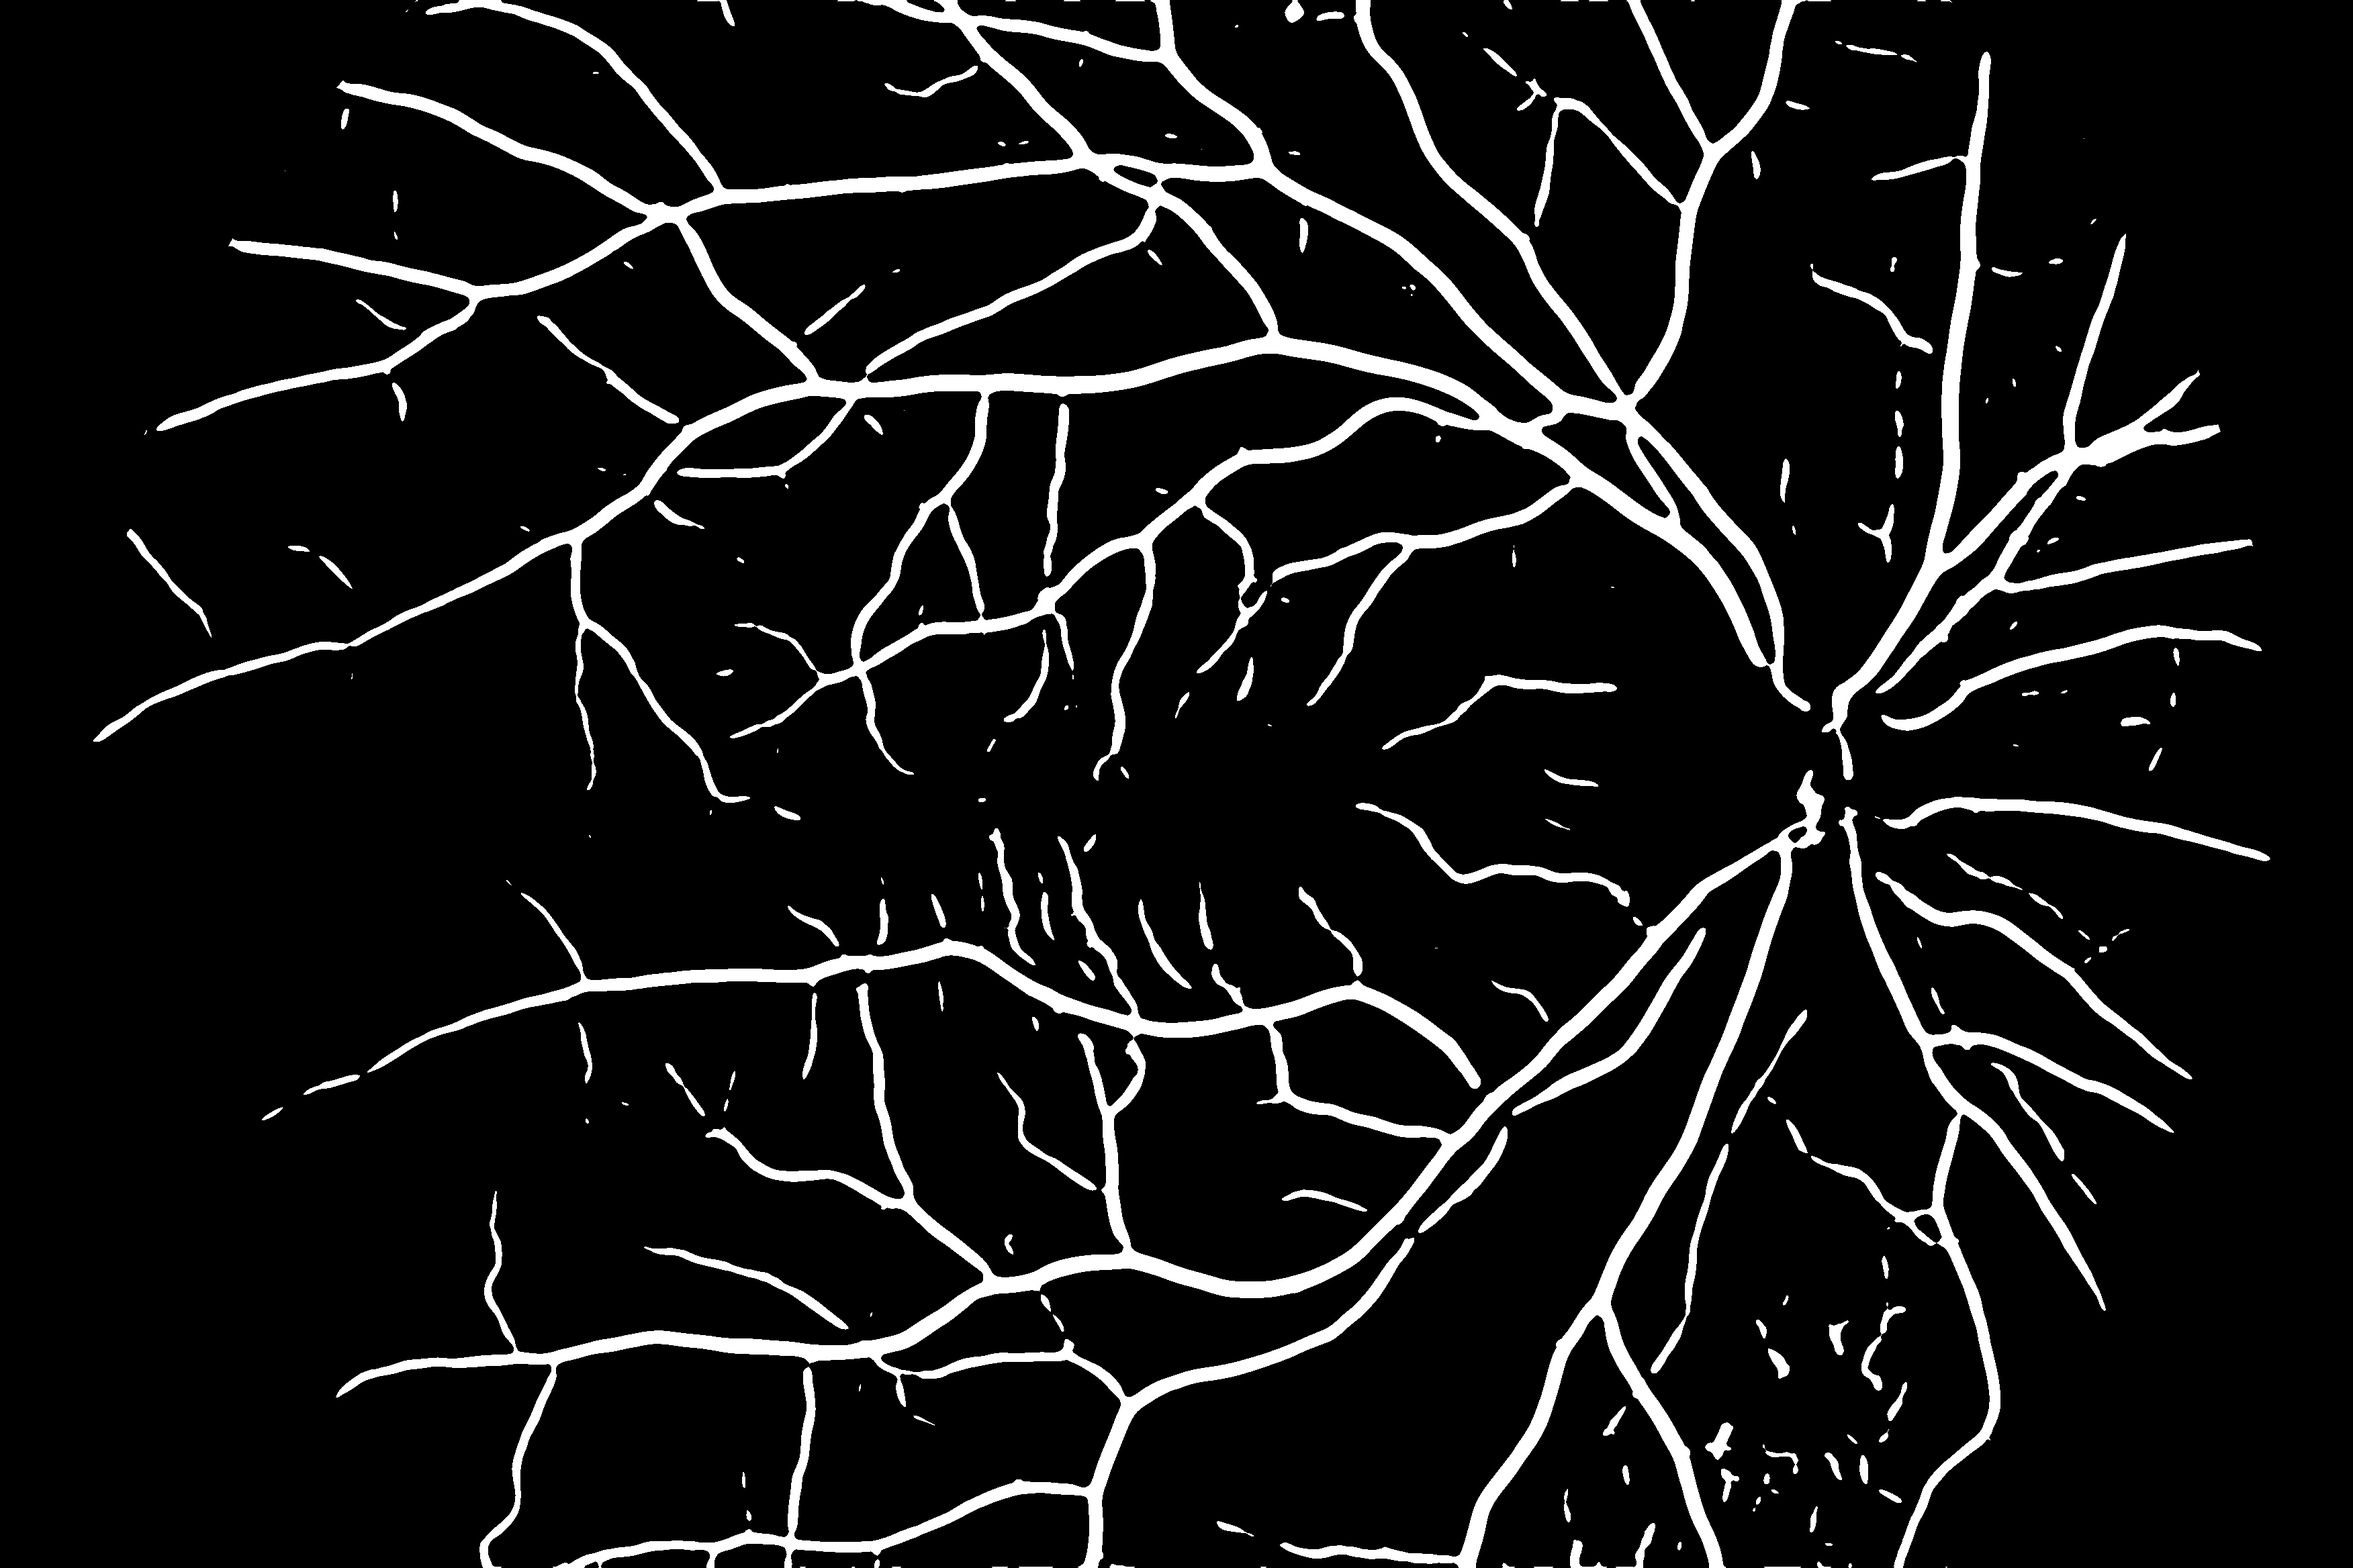
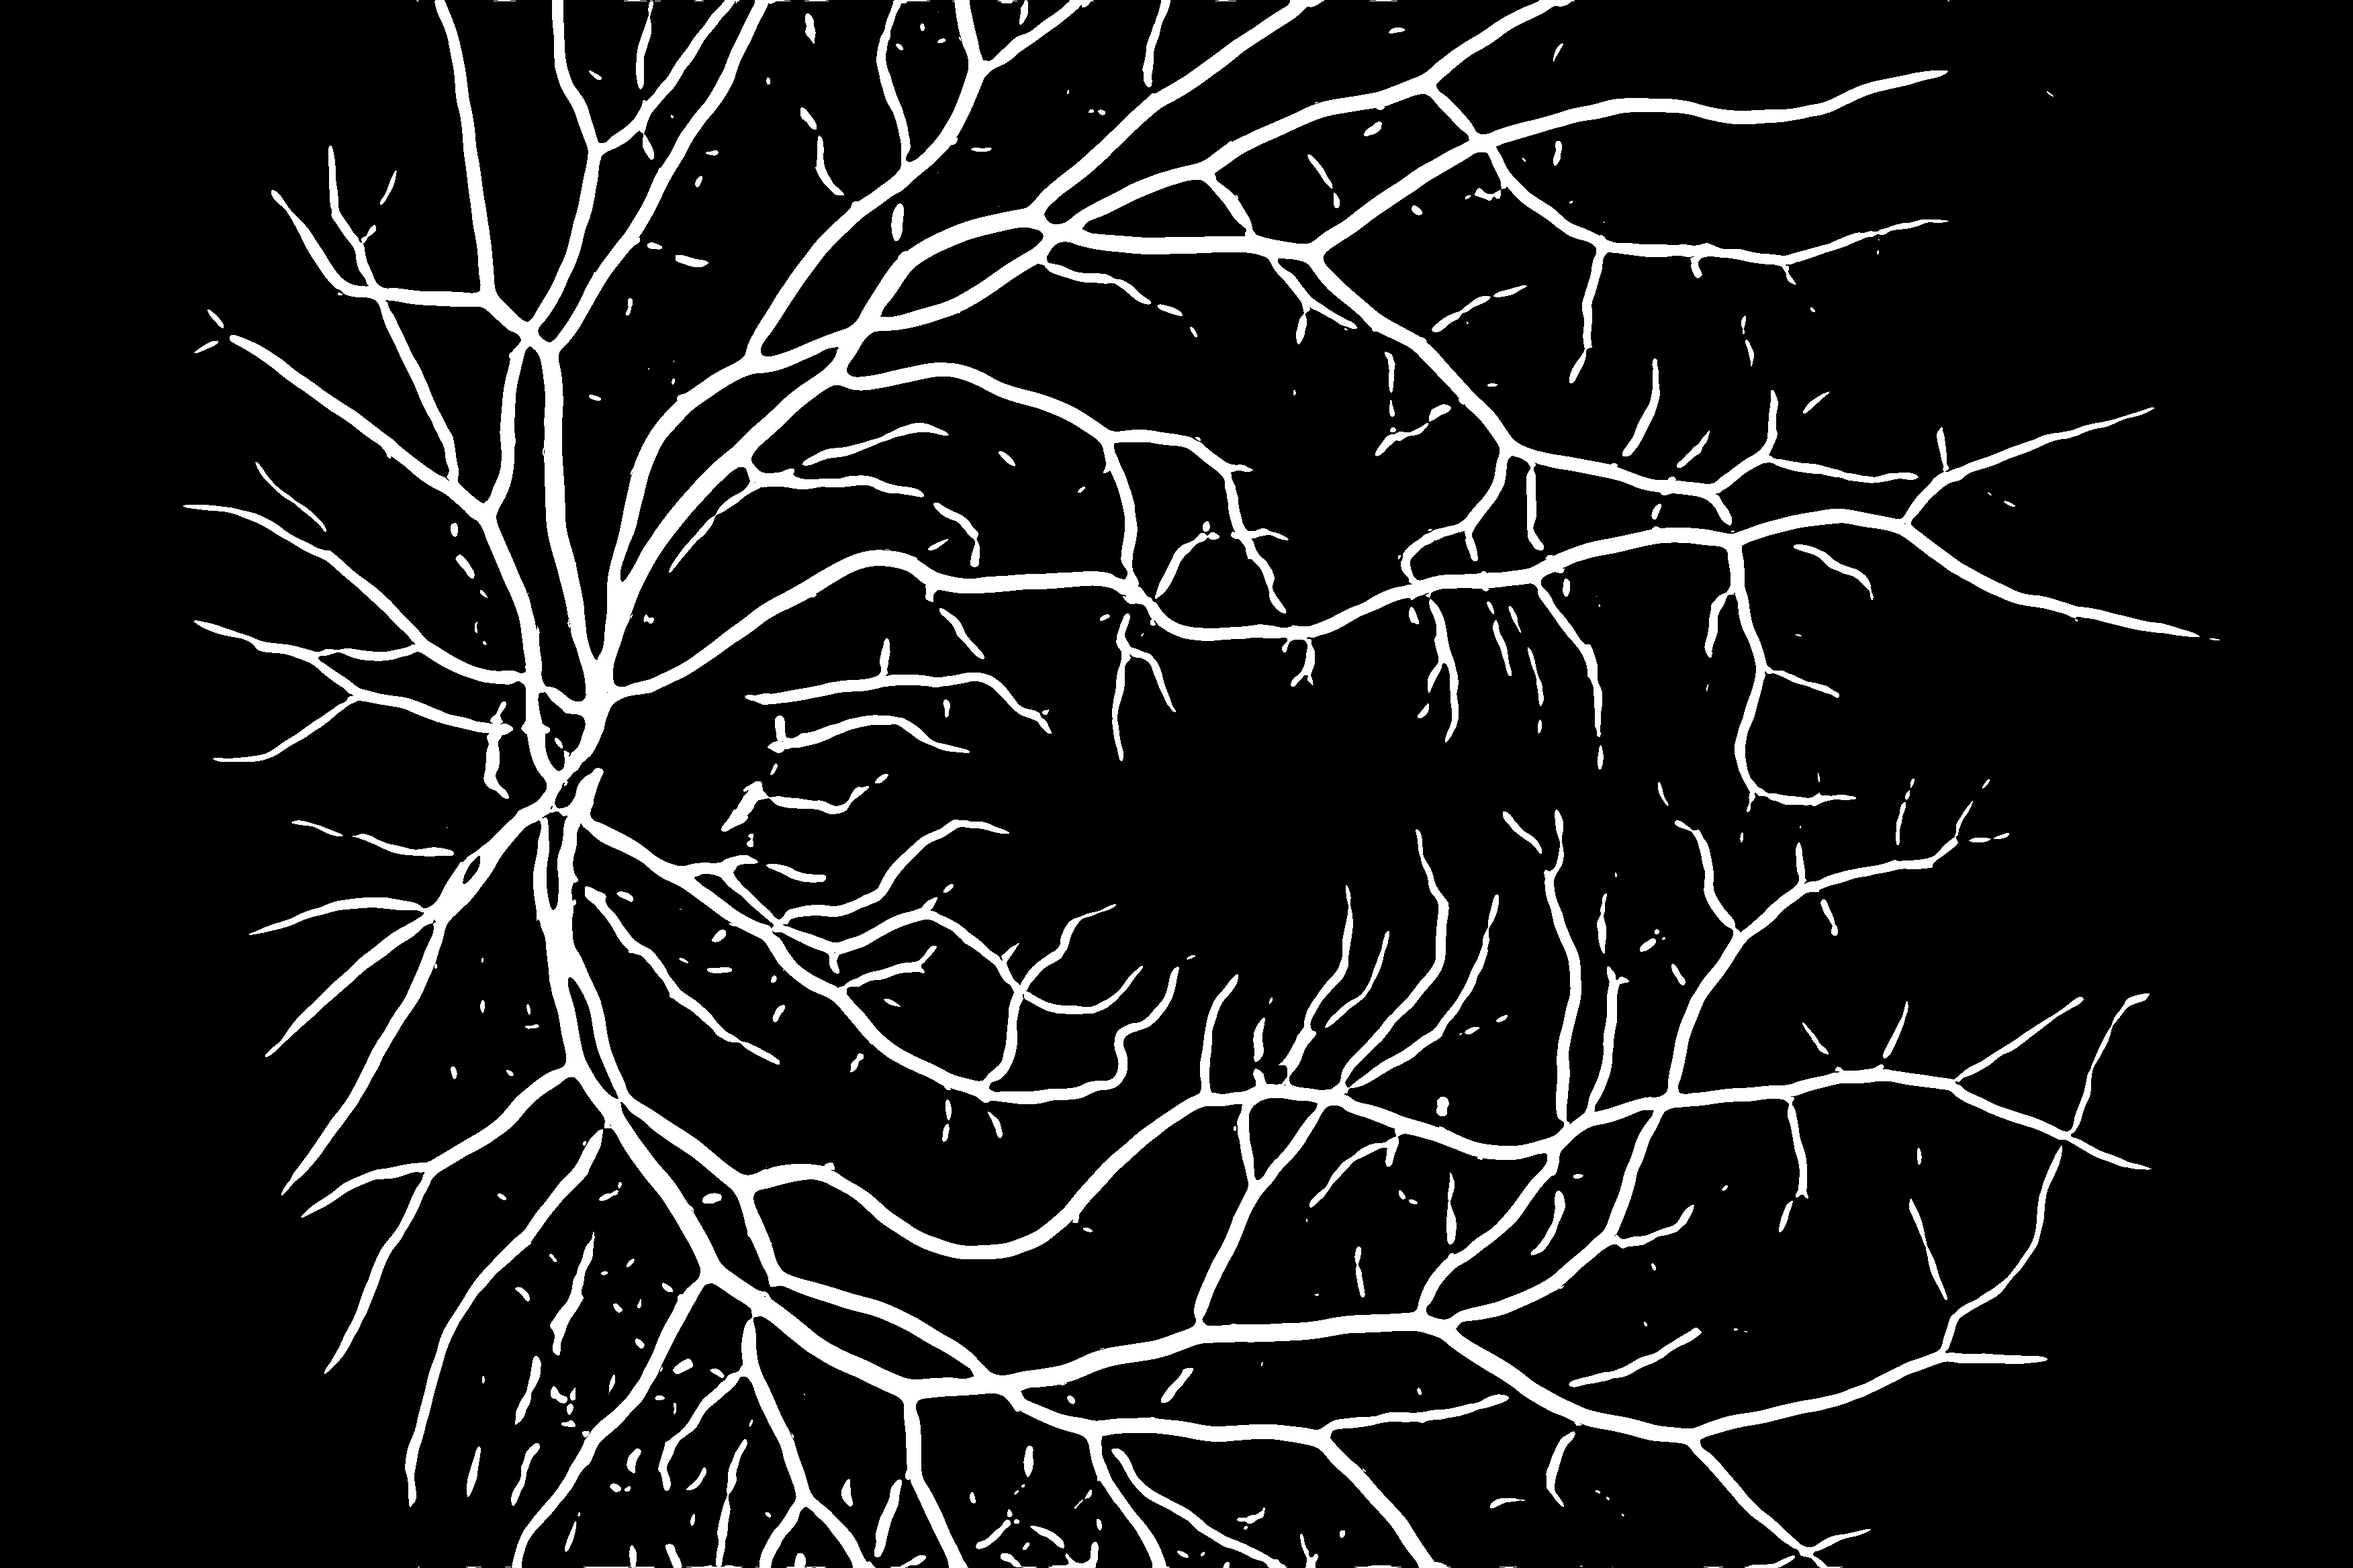
add changes

diff --git a/gui.py b/gui.py
@@ -57,8 +57,30 @@ def main():
 def run_xd_detection():
     """Run the vessel detection from xd.py"""
     try:
-        image_name = 'images/01_h.jpg'
-        image_fov = 'images_mask/01_h_mask.tif'
+        img = filedialog.askopenfilename(
+            title="Select Prediction Image",
+            filetypes=(("Image files", "*.jpg;*.jpeg;*.png;*.tif;*.tiff"), ("All files", "*.*"))
+        )
+
+        # Główna ścieżka katalogu
+        base_dir = os.path.dirname(os.path.dirname(img)) + "/"
+
+        # Ścieżka od folderu `images` w dół
+        relative_path = os.path.relpath(img, base_dir)
+
+        # Nazwa pliku bez rozszerzenia
+        filename = os.path.splitext(os.path.basename(img))[0]
+
+        print("Główna ścieżka:", base_dir)  # C:/Users/rapra/Desktop/IwM/Oko/pythonProject/
+        print("Relatywna ścieżka:", relative_path)  # images/12_h.jpg
+        print("Nazwa pliku:", filename)  # 12_h
+
+        base_img = relative_path
+        base_manual = f"images_manual/{filename}.tif"
+        base_mask = f"images_mask/{filename}_mask.tif"
+
+        image_name = base_img
+        image_fov = base_mask
 
         import cv2
         from xd import detect_vessels
@@ -70,17 +92,35 @@ def run_xd_detection():
             messagebox.showerror("Error", f"Failed to read image or mask file: {image_name}, {image_fov}")
             return
         
-        detect_vessels(image, fov)
+            detect_vessels(image, fov)
     except Exception as e:
         messagebox.showerror("Error", f"An error occurred: {str(e)}")
 
 def run_cnn_do():
     """Run the CNN model from cnn_do.py"""
     try:
-        base_img = "images/10_h.jpg"
-        base_manual = "images_manual/10_h.tif"
-        base_mask = "images_mask/10_h_mask.tif"
-        
+        img = filedialog.askopenfilename(
+            title="Select Prediction Image",
+            filetypes=(("Image files", "*.jpg;*.jpeg;*.png;*.tif;*.tiff"), ("All files", "*.*"))
+        )
+
+        # Główna ścieżka katalogu
+        base_dir = os.path.dirname(os.path.dirname(img)) + "/"
+
+        # Ścieżka od folderu `images` w dół
+        relative_path = os.path.relpath(img, base_dir)
+
+        # Nazwa pliku bez rozszerzenia
+        filename = os.path.splitext(os.path.basename(img))[0]
+
+        print("Główna ścieżka:", base_dir)  # C:/Users/rapra/Desktop/IwM/Oko/pythonProject/
+        print("Relatywna ścieżka:", relative_path)  # images/12_h.jpg
+        print("Nazwa pliku:", filename)  # 12_h
+
+        base_img = relative_path
+        base_manual = f"images_manual/{filename}.tif"
+        base_mask = f"images_mask/{filename}_mask.tif"
+
         import cv2
         import numpy as np
         import tensorflow as tf
@@ -174,15 +214,23 @@ def run_comparison():
 
 def run_main_prediction():
     """Run the prediction from main.py"""
+
+    print("KAS")
     try:
         from main import load_model, predict_img
-        
+
+        prediction_path = filedialog.askopenfilename(
+            title="Select Prediction Image",
+            filetypes=(("Image files", "*.jpg;*.jpeg;*.png;*.tif;*.tiff"), ("All files", "*.*"))
+        )
+        print("HALOO?")
+        print("Prediciotn path", prediction_path)
         knn_classifier = load_model()
         if knn_classifier is None:
             messagebox.showerror("Error", "Failed to load KNN model")
             return
             
-        predict_img(knn_classifier)
+        predict_img(knn_classifier,prediction_path);
     except Exception as e:
         messagebox.showerror("Error", f"An error occurred: {str(e)}")
 

diff --git a/xd.py b/xd.py
@@ -14,7 +14,7 @@ def detect_vessels(img, image_fov):
     colorimage_b = img[:, :, 0]
     colorimage_g = cv2.equalizeHist(img[:, :, 1])
     colorimage_r = img[:, :, 2]
-    img = np.stack((colorimage_b, colorimage_g, colorimage_r), axis=2)
+    #img = np.stack((colorimage_b, colorimage_g, colorimage_r), axis=2)
 
     img = colorimage_g
     axs[0].imshow(cv2.cvtColor(img, cv2.COLOR_BGR2RGB))
@@ -42,36 +42,32 @@ def detect_vessels(img, image_fov):
     axs[3].set_title("Filtr Frangi")
     axs[3].axis("off")
 
-    # 6. Morfologiczna dylatacja i erozja
-    img = mp.dilation(img, mp.disk(4))
-    img = mp.erosion(img, mp.disk(4))
-    axs[4].imshow(img, cmap='gray')
-    axs[4].set_title("Morfologia (dylacja+erozja)")
-    axs[4].axis("off")
 
     # 7. Progowanie Otsu
     thresh = threshold_otsu(img)
     binary_img = img > thresh * 0.1
-    axs[5].imshow(binary_img, cmap='gray')
-    axs[5].set_title("Po progowaniu Otsu")
-    axs[5].axis("off")
+    axs[4].imshow(binary_img, cmap='gray')
+    axs[4].set_title("Po progowaniu Otsu")
+    axs[4].axis("off")
 
     # 8. Nakładanie maski FOV (ograniczenie do obszaru siatkówki)
     final_masked = np.copy(binary_img)
     final_masked[image_fov == 0] = 0
-    axs[6].imshow(image_fov, cmap='gray')
-    axs[6].set_title("Maska FOV")
-    axs[6].axis("off")
+    axs[5].imshow(image_fov, cmap='gray')
+    axs[5].set_title("Maska FOV")
+    axs[5].axis("off")
 
     # 9. Obraz końcowy
-    axs[7].imshow(final_masked, cmap='gray')
-    axs[7].set_title("Obraz końcowy")
-    axs[7].axis("off")
+    axs[6].imshow(final_masked, cmap='gray')
+    axs[6].set_title("Obraz końcowy")
+    axs[6].axis("off")
 
+    axs[7].axis("off")
+    axs[7].set_visible(False)
     plt.tight_layout()
     plt.show()
 
-    output_filename="xd.jpg"
+    output_filename="przetwarzanie.jpg"
     final_img_uint8 = (final_masked * 255).astype(np.uint8)
     cv2.imwrite(output_filename, final_img_uint8)
     print(f"Z pliku xd.py zapisano {output_filename}")
@@ -82,7 +78,7 @@ def detect_vessels(img, image_fov):
 image_name = 'images/01_h.jpg'
 image_fov = 'images_mask/01_h_mask.tif'
 
-image = cv2.imread(image_name)
-fov = cv2.imread(image_fov, cv2.IMREAD_GRAYSCALE)
+#image = cv2.imread(image_name)
+#fov = cv2.imread(image_fov, cv2.IMREAD_GRAYSCALE)
 
-result = detect_vessels(image, fov)
+#result = detect_vessels(image, fov)

diff --git a/main.py b/main.py
@@ -1,3 +1,5 @@
+import os
+
 import cv2
 import numpy as np
 import matplotlib.pyplot as plt
@@ -15,6 +17,7 @@ from joblib import dump, load
 SCALE_FACTOR = 0.8
 MODEL_NAME = "full_knn_3.pkl"
 PATCH_SIZE = 5
+NEIGHBOURS = 3
 
 def preprocess_image(img, mask):
     # Wyciągamy zielony kanał i normalizujemy
@@ -167,7 +170,7 @@ def create_mode():
     print("Classifier")
 
     classifier = KNeighborsClassifier(
-        n_neighbors=3,
+        n_neighbors=NEIGHBOURS,
         weights='distance',
         p=1
     )
@@ -228,10 +231,24 @@ def prediction_to_mask(predictions, image_shape, patch_size=PATCH_SIZE):
     print(f"Zapisano wynik KNN na {output_filename}")
 
     return mask
-def predict_img(knn_clasifier):
-    base_img = "images/10_h.jpg"
-    base_manual = "images_manual/10_h.tif"
-    base_mask = "images_mask/10_h_mask.tif"
+def predict_img(knn_clasifier, img):
+    # Główna ścieżka katalogu
+    base_dir = os.path.dirname(os.path.dirname(img)) + "/"
+
+    # Ścieżka od folderu `images` w dół
+    relative_path = os.path.relpath(img, base_dir)
+
+    # Nazwa pliku bez rozszerzenia
+    filename = os.path.splitext(os.path.basename(img))[0]
+
+    print("Główna ścieżka:", base_dir)  # C:/Users/rapra/Desktop/IwM/Oko/pythonProject/
+    print("Relatywna ścieżka:", relative_path)  # images/12_h.jpg
+    print("Nazwa pliku:", filename)  # 12_h
+
+    base_img = relative_path
+    base_manual = f"images_manual/{filename}.tif"
+    base_mask = f"images_mask/{filename}_mask.tif"
+
     image = cv2.imread(base_img)
     manual = cv2.imread(base_manual)
     mask = cv2.imread(base_mask)
@@ -262,12 +279,11 @@ def predict_img(knn_clasifier):
 
 
 #create_patches_and_labels(image,manual)
-# create_mode()
-
+#create_mode()
 knn_clasifier = load_model()
 print("wczytany")
 
-predict_img(knn_clasifier)
+predict_img(knn_clasifier, "C:/Users/rapra/Desktop/IwM/Oko/pythonProject/images/13_h.jpg")
 
 
 # najpierw create_mode(), jak odpalony to zakomentować go i dać predict_img

diff --git a/cnn_do.py b/cnn_do.py
@@ -1,3 +1,5 @@
+import os
+
 import cv2
 import numpy as np
 
@@ -82,7 +84,10 @@ def predict_and_save(image, manual, output_filename="cnn_prediction.jpg"):
     
     return binary_mask, output_filename
 
-if __name__ == "__main__":
+
+
+def cnn_predict(img):
+
     base_img = "images/10_h.jpg"
     base_manual = "images_manual/10_h.tif"
     base_mask = "images_mask/10_h_mask.tif"
@@ -90,5 +95,6 @@ if __name__ == "__main__":
     manual = cv2.imread(base_manual)
     mask = cv2.imread(base_mask)
     manual = cv2.cvtColor(manual, cv2.COLOR_BGR2GRAY)
-    
+
     predict_and_save(image, manual, "cnn_.jpg")
+
